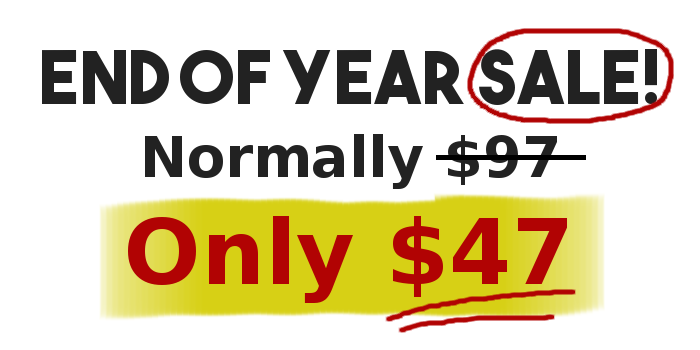
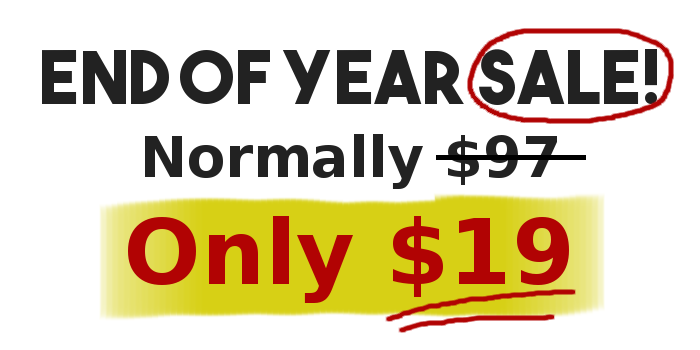
Add initial forum files and special discount

Changed region(s): [[0.63, 0.6, 0.81, 0.8286]]

diff --git a/db/schema.rb b/db/schema.rb
@@ -11,7 +11,7 @@
 #
 # It's strongly recommended that you check this file into your version control system.
 
-ActiveRecord::Schema.define(version: 20151110030704) do
+ActiveRecord::Schema.define(version: 20151209115135) do
 
   # These are extensions that must be enabled in order to support this database
   enable_extension "plpgsql"
@@ -47,6 +47,35 @@ ActiveRecord::Schema.define(version: 20151110030704) do
     t.datetime "created_at", null: false
     t.datetime "updated_at", null: false
   end
+
+  create_table "forum_boards", force: :cascade do |t|
+    t.string   "name"
+    t.datetime "created_at", null: false
+    t.datetime "updated_at", null: false
+  end
+
+  create_table "forum_posts", force: :cascade do |t|
+    t.string   "title"
+    t.text     "body"
+    t.integer  "forum_topic_id"
+    t.integer  "user_id"
+    t.datetime "created_at",     null: false
+    t.datetime "updated_at",     null: false
+  end
+
+  add_index "forum_posts", ["forum_topic_id"], name: "index_forum_posts_on_forum_topic_id", using: :btree
+  add_index "forum_posts", ["user_id"], name: "index_forum_posts_on_user_id", using: :btree
+
+  create_table "forum_topics", force: :cascade do |t|
+    t.string   "name"
+    t.integer  "forum_board_id"
+    t.integer  "user_id"
+    t.datetime "created_at",     null: false
+    t.datetime "updated_at",     null: false
+  end
+
+  add_index "forum_topics", ["forum_board_id"], name: "index_forum_topics_on_forum_board_id", using: :btree
+  add_index "forum_topics", ["user_id"], name: "index_forum_topics_on_user_id", using: :btree
 
   create_table "payment_notifications", force: :cascade do |t|
     t.text     "params"
@@ -96,5 +125,9 @@ ActiveRecord::Schema.define(version: 20151110030704) do
   add_foreign_key "attempts", "tests"
   add_foreign_key "attempts", "users"
   add_foreign_key "choices", "questions"
+  add_foreign_key "forum_posts", "forum_topics"
+  add_foreign_key "forum_posts", "users"
+  add_foreign_key "forum_topics", "forum_boards"
+  add_foreign_key "forum_topics", "users"
   add_foreign_key "questions", "tests"
 end

diff --git a/spec/factories.rb b/spec/factories.rb
@@ -1,4 +1,18 @@
-FactoryGirl.define do
+FactoryGirl.define do  factory :forum_post do
+    title "MyString"
+body "MyText"
+forum_topic nil
+user nil
+  end
+  factory :forum_topic do
+    name "MyString"
+forum_board nil
+user nil
+  end
+  factory :forum_board do
+    name "MyString"
+  end
+
 	factory :user do
 		sequence(:name) { |n| "User #{n}" }
 		sequence(:email) { |n| "user#{n}@example.com" }

diff --git a/db/migrate/20151209115135_create_forum_posts.rb b/db/migrate/20151209115135_create_forum_posts.rb
@@ -1,0 +1,12 @@
+class CreateForumPosts < ActiveRecord::Migration
+  def change
+    create_table :forum_posts do |t|
+      t.string :title
+      t.text :body
+      t.belongs_to :forum_topic, index: true, foreign_key: true
+      t.belongs_to :user, index: true, foreign_key: true
+
+      t.timestamps null: false
+    end
+  end
+end

diff --git a/db/migrate/20151209115021_create_forum_topics.rb b/db/migrate/20151209115021_create_forum_topics.rb
@@ -1,0 +1,11 @@
+class CreateForumTopics < ActiveRecord::Migration
+  def change
+    create_table :forum_topics do |t|
+      t.string :name
+      t.belongs_to :forum_board, index: true, foreign_key: true
+      t.belongs_to :user, index: true, foreign_key: true
+
+      t.timestamps null: false
+    end
+  end
+end

diff --git a/app/models/user.rb b/app/models/user.rb
@@ -8,6 +8,8 @@ class User < ActiveRecord::Base
   serialize :package
 
   after_create :send_welcome_email
+  has_many :forum_topics, dependent: :destroy
+  has_many :forum_posts, dependent: :destroy
 
   def send_welcome_email
   	UserMailer.welcome(self).deliver_now

diff --git a/db/migrate/20151209114847_create_forum_boards.rb b/db/migrate/20151209114847_create_forum_boards.rb
@@ -1,0 +1,9 @@
+class CreateForumBoards < ActiveRecord::Migration
+  def change
+    create_table :forum_boards do |t|
+      t.string :name
+
+      t.timestamps null: false
+    end
+  end
+end

diff --git a/app/models/forum_board.rb b/app/models/forum_board.rb
@@ -1,0 +1,4 @@
+class ForumBoard < ActiveRecord::Base
+	has_many :forum_topics, dependent: :destroy
+	has_many :forum_posts, through: :forum_topics
+end

diff --git a/app/models/forum_topic.rb b/app/models/forum_topic.rb
@@ -1,0 +1,5 @@
+class ForumTopic < ActiveRecord::Base
+  belongs_to :forum_board
+  belongs_to :user
+  has_many :forum_posts, dependent: :destroy
+end

diff --git a/spec/models/forum_board_spec.rb b/spec/models/forum_board_spec.rb
@@ -1,0 +1,5 @@
+require 'rails_helper'
+
+RSpec.describe ForumBoard, type: :model do
+  pending "add some examples to (or delete) #{__FILE__}"
+end

diff --git a/spec/models/forum_topic_spec.rb b/spec/models/forum_topic_spec.rb
@@ -1,0 +1,5 @@
+require 'rails_helper'
+
+RSpec.describe ForumTopic, type: :model do
+  pending "add some examples to (or delete) #{__FILE__}"
+end

diff --git a/spec/models/forum_post_spec.rb b/spec/models/forum_post_spec.rb
@@ -1,0 +1,5 @@
+require 'rails_helper'
+
+RSpec.describe ForumPost, type: :model do
+  pending "add some examples to (or delete) #{__FILE__}"
+end

diff --git a/app/models/forum_post.rb b/app/models/forum_post.rb
@@ -1,0 +1,4 @@
+class ForumPost < ActiveRecord::Base
+  belongs_to :forum_topic
+  belongs_to :user
+end
